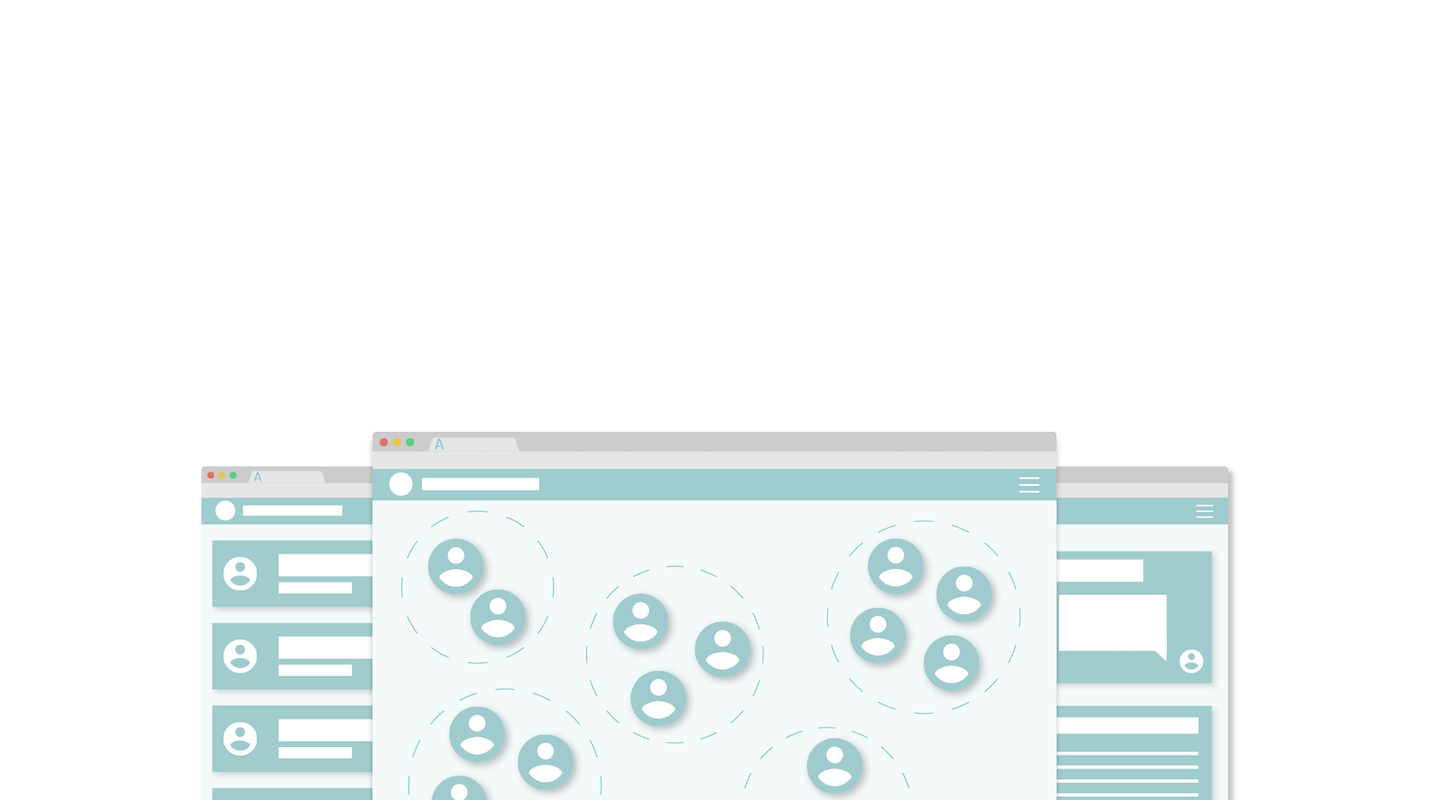
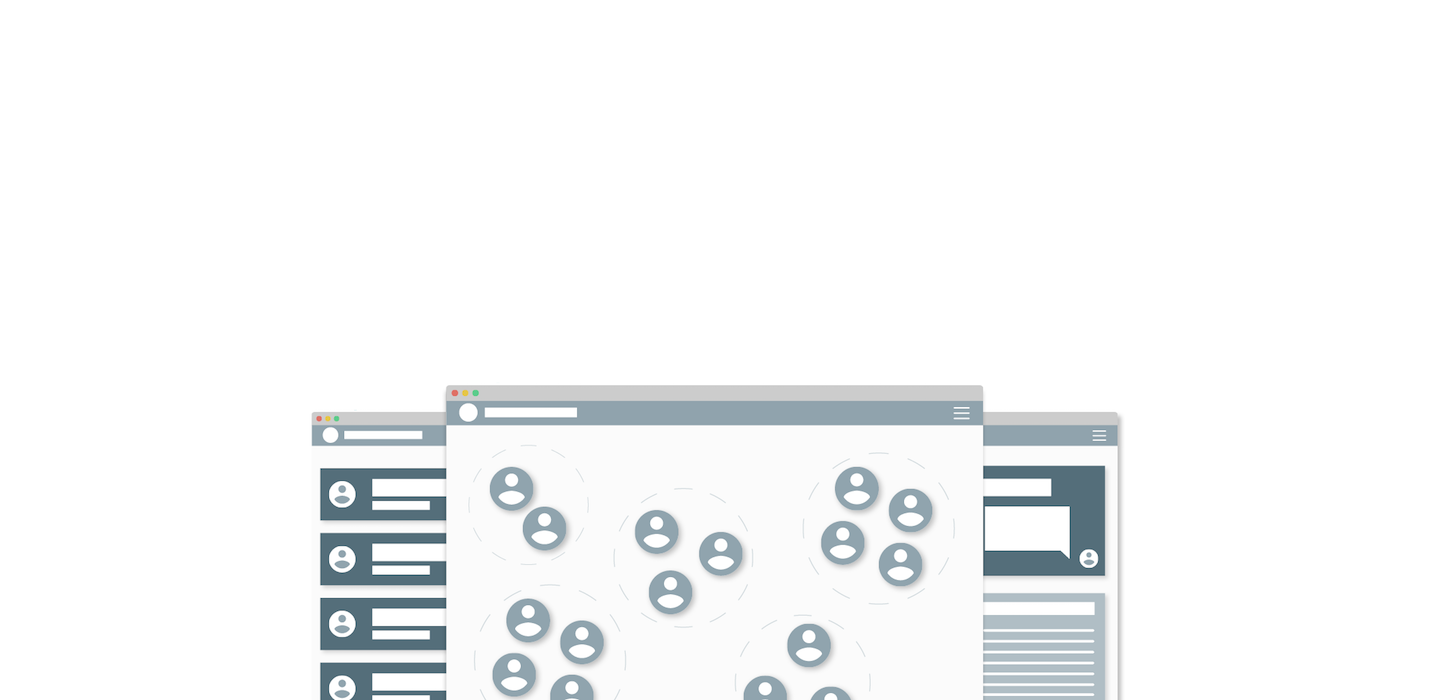
updated color scheme and added footer

Changed region(s): [[0.1232, 0.54, 0.8621, 1.0], [0.4927, 0.87, 0.6158, 1.0]]

diff --git a/index.html b/index.html
@@ -20,8 +20,9 @@
             <div class="container">
             <a href="../index.html" class="brand-logo"><img src="img/acdmy-01.png" alt="acdmy short logo"></a>
             <ul id="nav-mobile" class="right hide-on-med-and-down">
-              <li><a href="features/" class="black-text">Features</a></li>
-              <li><a href="about/" class="black-text">Prototype</a></li>
+              <li><a href="features/" class="waves-effect waves-light btn transparent black-text z-depth-0">Features</a></li>
+<!--              <li><a href="prototype/" class="waves-effect waves-light btn transparent black-text z-depth-0">Prototype</a></li>-->
+              <li><a href="about/" class="waves-effect waves-light btn transparent black-text z-depth-0">About</a></li>
             </ul>
           </div>
             </div>
@@ -44,15 +45,8 @@
         <div class="container">
           <div class="row center">
             <h3 class="title">Online Learning Design Concept</h3>
-            <p><a class="waves-effect waves-light btn primary">Explore</a></p>
-            <br>
-            <br>
-            <br>
-            <br>
-            <br>
-            <br>
-            <br>
-             
+            <p><a class="waves-effect waves-light btn blue-grey">Explore</a></p>
+          
           </div>
         </div>
       </div>
@@ -62,14 +56,35 @@
           <p class="grey-text text-darken-3 lighten-3">Parallax is an effect where the background content or image in this case, is moved at a different speed than the foreground content while scrolling.</p>
         </div>
       </div>
-      <div class="parallax-container">
-        <div class="parallax"><img src="images/parallax2.jpg"></div>
-      </div>
+      
         
-
+      <footer class="page-footer blue-grey">
+          <div class="container">
+            <div class="row">
+              <div class="col l6 s12">
+                <h5 class="white-text">About Acdmy</h5>
+                <p class="grey-text text-lighten-4">This is a learning design concept only. All of the ideas are mine and may or may not one day become reality.</p>
+              </div>
+              <div class="col l4 offset-l2 s12">
+                <h5 class="white-text">Learn More</h5>
+                <ul>
+                  <li><a class="grey-text text-lighten-3" href="features/">Features</a></li>
+                  <li><a class="grey-text text-lighten-3" href="prototype/">Prototype</a></li>
+                  <li><a class="grey-text text-lighten-3" href="about/">About</a></li>
+                  <li><a class="grey-text text-lighten-3" href="involved/">Get Involved</a></li>
+                </ul>
+              </div>
+            </div>
+          </div>
+          <div class="footer-copyright">
+            <div class="container">
+              Designed by <a href="http://dwthurber.com" target="_blank" class="blue-grey-text text-lighten-5">Derek Thurber</a>
+            </div>
+          </div>
+        </footer>
       <footer>
         <div class="container center">
-          <p>Designed by <a href="http://dwthurber.com" target="_blank">Derek Thurber</a></p>
+          
         </div>
       </footer>
       <script

diff --git a/css/style.css b/css/style.css
@@ -1,6 +1,6 @@
 
 body {
-  background-color: #F4FBFB;
+  background-color: #FCFCFC;
 }
 .space {
   padding: 30px 0;
@@ -24,19 +24,14 @@ h6 {
   font-weight: 200;
 }
 p {
-  font-weight: 300;
-}
-a {
-  color: #A0CCCE;
-}
-a:hover {
-  color: #6DA6A9;
+  font-weight: 200;
 }
 .title {
   border-bottom: none;
   color:#333;
 /*  text-transform: uppercase;*/
   font-weight: 100;
+  margin-top: -180px;
 }
 .card-action a {
   color: #A0CCCE!important;
@@ -44,6 +39,14 @@ a:hover {
 
 .primary {
   background-color: #A0CCCE; 
+}
+
+.primary-darker-1 {
+  background-color: #6DA6A9;
+}
+
+footer a:hover {
+  color: #fff;
 }
 /* ==============
 
@@ -92,6 +95,7 @@ NAV
 
 nav {
 /*  background-color: #6DA6A9;*/
+  box-shadow: none;
 }
 
 .brand-logo {
